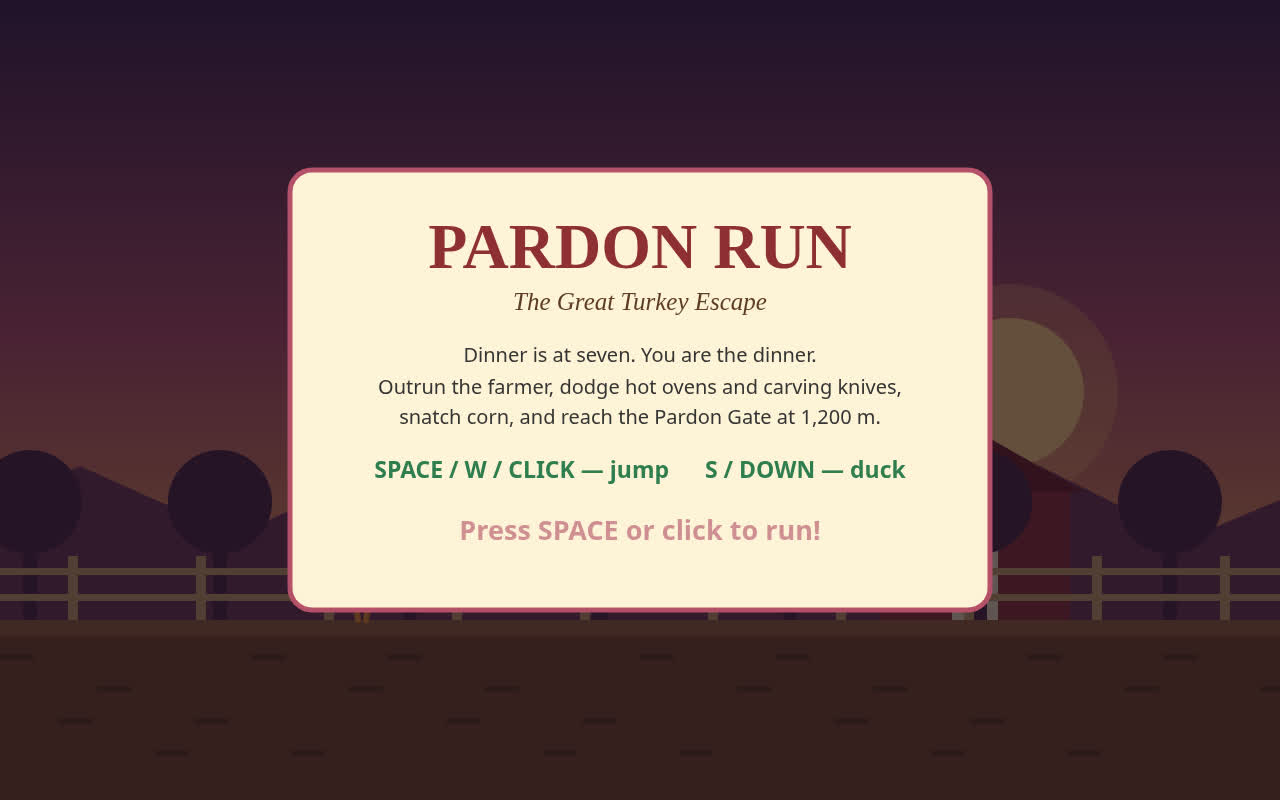
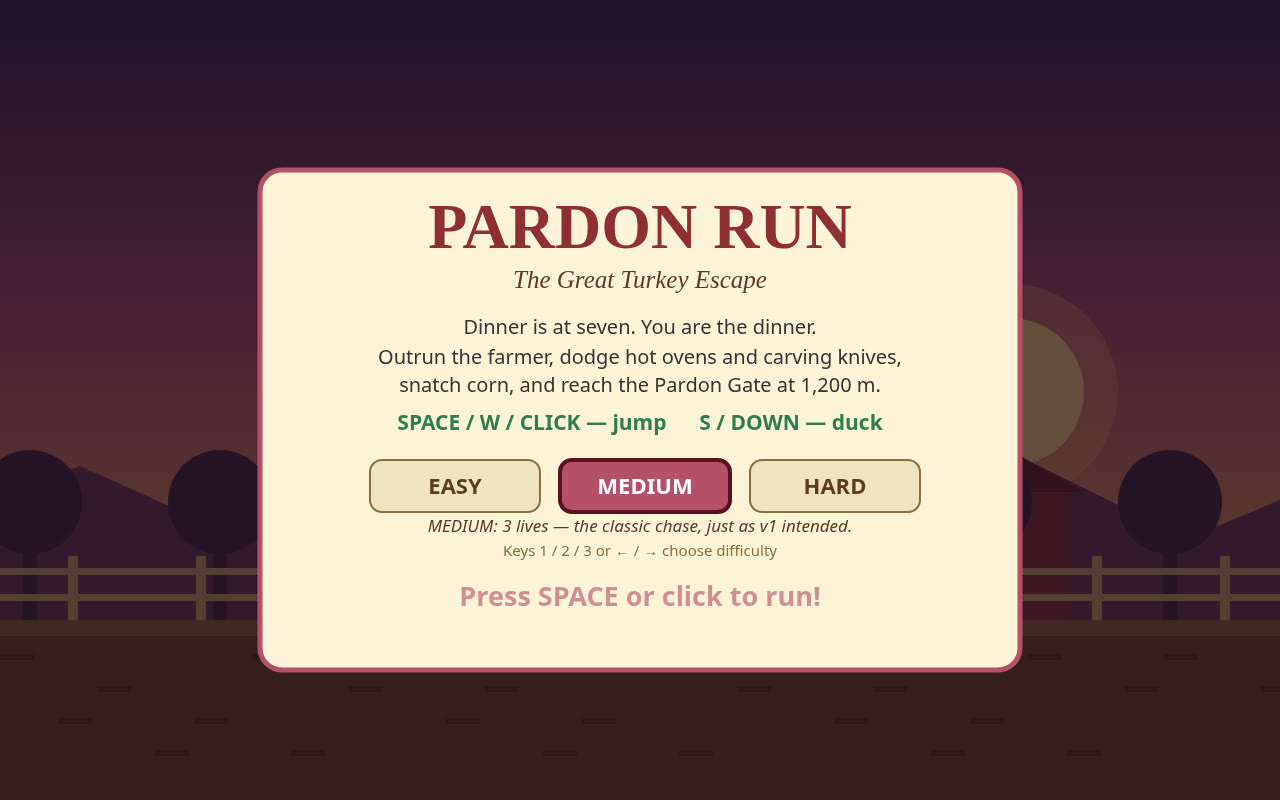
Add EASY/MEDIUM/HARD difficulty modes

Changed region(s): [[0.1875, 0.1875, 0.8125, 0.8438]]

diff --git a/game/src/hud.js b/game/src/hud.js
@@ -1,7 +1,23 @@
 // hud.js — heads-up display and the title / end cards. The HUD always
 // shows score, distance, lives and the FARMER meter while running.
 
-import { GOAL_M } from './world.js';
+import { GOAL_M, MODES, MODE_ORDER } from './world.js';
+
+// Mode buttons on the title card, in stage coordinates (1280x800).
+// Exported so main.js hit-tests clicks against exactly these rects.
+export const MODE_BUTTONS = MODE_ORDER.map((mode, i) => ({
+  mode,
+  x: 370 + i * 190,
+  y: 460,
+  w: 170,
+  h: 52,
+}));
+
+export const MODE_DESCRIPTIONS = {
+  easy: 'EASY: 5 lives, a kinder farmer, and obstacles spaced far apart.',
+  medium: 'MEDIUM: 3 lives — the classic chase, just as v1 intended.',
+  hard: 'HARD: only 2 lives, an aggressive farmer, obstacles packed tight.',
+};
 
 function panel(ctx, x, y, w, h) {
   ctx.fillStyle = 'rgba(24,14,28,0.72)';
@@ -9,9 +25,10 @@ function panel(ctx, x, y, w, h) {
   ctx.strokeStyle = 'rgba(255,217,141,0.55)'; ctx.lineWidth = 2; ctx.stroke();
 }
 
-function hearts(ctx, lives) {
-  for (let i = 0; i < 3; i++) {
-    const x = 36 + i * 40, y = 104;
+function hearts(ctx, lives, maxLives = 3) {
+  const total = Math.max(1, maxLives);
+  for (let i = 0; i < total; i++) {
+    const x = 36 + i * 34, y = 104;
     ctx.fillStyle = i < lives ? '#ff4d5e' : 'rgba(255,255,255,0.25)';
     ctx.beginPath();
     ctx.moveTo(x, y + 12);
@@ -30,10 +47,11 @@ export function drawHud(ctx, w) {
   ctx.fillStyle = '#ffffff';
   ctx.font = 'bold 21px system-ui, sans-serif';
   ctx.fillText('DIST  ' + Math.min(GOAL_M, Math.floor(w.dist)) + ' m / ' + GOAL_M + ' m', 36, 82);
-  hearts(ctx, Math.max(0, w.lives));
+  hearts(ctx, Math.max(0, w.lives), w.maxLives || 3);
   ctx.fillStyle = '#ffe9b0';
   ctx.font = 'bold 16px system-ui, sans-serif';
-  ctx.fillText('CORN x' + w.corn, 168, 110);
+  // Corn counter sits just right of however many hearts this mode has.
+  ctx.fillText('CORN x' + w.corn, 44 + (w.maxLives || 3) * 34, 110);
 
   // Farmer meter: fills red as he closes in.
   panel(ctx, 880, 16, 382, 74);
@@ -60,6 +78,15 @@ export function drawHud(ctx, w) {
   ctx.fillText('PARDON GATE ' + Math.round(p * 100) + '%', 590, 58);
   ctx.textAlign = 'left';
 
+  // Current difficulty, tucked under the left panel so it never overlaps
+  // the score panel above it or the flash message in the centre.
+  ctx.fillStyle = 'rgba(24,14,28,0.72)';
+  ctx.beginPath(); ctx.roundRect(18, 132, 180, 34, 9); ctx.fill();
+  ctx.strokeStyle = 'rgba(255,217,141,0.55)'; ctx.lineWidth = 1.5; ctx.stroke();
+  ctx.fillStyle = '#ffd98a';
+  ctx.font = 'bold 16px system-ui, sans-serif'; ctx.textAlign = 'left';
+  ctx.fillText('MODE ' + String(w.mode || 'medium').toUpperCase(), 32, 155);
+
   if (w.flashT > 0 && w.phase === 'run') {
     ctx.fillStyle = 'rgba(214,60,50,0.92)';
     ctx.font = 'bold 30px system-ui, sans-serif'; ctx.textAlign = 'center';
@@ -77,27 +104,44 @@ function card(ctx, w, h) {
 }
 
 export function drawTitle(ctx, w) {
-  card(ctx, 700, 440);
+  card(ctx, 760, 500);
   ctx.textAlign = 'center';
   ctx.fillStyle = '#8e2f35';
   ctx.font = 'bold 64px Georgia, serif';
-  ctx.fillText('PARDON RUN', 640, 268);
+  ctx.fillText('PARDON RUN', 640, 248);
   ctx.fillStyle = '#5d3a22';
   ctx.font = 'italic 25px Georgia, serif';
-  ctx.fillText('The Great Turkey Escape', 640, 310);
+  ctx.fillText('The Great Turkey Escape', 640, 288);
   ctx.fillStyle = '#333';
   ctx.font = '20px system-ui, sans-serif';
-  ctx.fillText('Dinner is at seven. You are the dinner.', 640, 362);
-  ctx.fillText('Outrun the farmer, dodge hot ovens and carving knives,', 640, 394);
-  ctx.fillText('snatch corn, and reach the Pardon Gate at 1,200 m.', 640, 424);
+  ctx.fillText('Dinner is at seven. You are the dinner.', 640, 334);
+  ctx.fillText('Outrun the farmer, dodge hot ovens and carving knives,', 640, 364);
+  ctx.fillText('snatch corn, and reach the Pardon Gate at 1,200 m.', 640, 392);
   ctx.fillStyle = '#2e7d4f';
-  ctx.font = 'bold 23px system-ui, sans-serif';
-  ctx.fillText('SPACE / W / CLICK — jump      S / DOWN — duck', 640, 478);
+  ctx.font = 'bold 21px system-ui, sans-serif';
+  ctx.fillText('SPACE / W / CLICK — jump      S / DOWN — duck', 640, 430);
+  // Difficulty picker: three buttons, the chosen one clearly highlighted.
+  const selected = MODES[w.mode] ? w.mode : 'medium';
+  for (const btn of MODE_BUTTONS) {
+    const active = btn.mode === selected;
+    ctx.fillStyle = active ? '#b5506a' : '#efe3c2';
+    ctx.beginPath(); ctx.roundRect(btn.x, btn.y, btn.w, btn.h, 12); ctx.fill();
+    ctx.strokeStyle = active ? '#5d1020' : '#8a6d3b'; ctx.lineWidth = active ? 4 : 2; ctx.stroke();
+    ctx.fillStyle = active ? '#ffffff' : '#5d3a22';
+    ctx.font = 'bold 22px system-ui, sans-serif';
+    ctx.fillText(btn.mode.toUpperCase(), btn.x + btn.w / 2, btn.y + 34);
+  }
+  ctx.fillStyle = '#5d3a22';
+  ctx.font = 'italic 17px system-ui, sans-serif';
+  ctx.fillText(MODE_DESCRIPTIONS[selected], 640, 532);
+  ctx.fillStyle = '#8a6d3b';
+  ctx.font = '15px system-ui, sans-serif';
+  ctx.fillText('Keys 1 / 2 / 3 or ← / → choose difficulty', 640, 556);
   ctx.fillStyle = '#b5506a';
   ctx.font = 'bold 27px system-ui, sans-serif';
   const pulse = 0.75 + Math.sin(w.time * 4) * 0.25;
   ctx.globalAlpha = pulse;
-  ctx.fillText('Press SPACE or click to run!', 640, 540);
+  ctx.fillText('Press SPACE or click to run!', 640, 606);
   ctx.globalAlpha = 1;
   ctx.textAlign = 'left';
 }

diff --git a/game/src/world.js b/game/src/world.js
@@ -7,19 +7,37 @@ import { makeRng, pick } from './random.js';
 export const GOAL_M = 1200;
 export const GROUND_Y = 620;
 
-export function createWorld(seed) {
+// Difficulty modes. Running speed is identical in every mode (the exact
+// v1 formula in stepWorld); modes differ only in lives, farmer behaviour
+// and obstacle density. MEDIUM reproduces the original v1 tuning exactly.
+export const MODES = {
+  easy: { lives: 5, startGap: 56, hitGap: 10, gapRegen: 1.6, spawnMin: 36, spawnMax: 52 },
+  medium: { lives: 3, startGap: 46, hitGap: 17, gapRegen: 1.15, spawnMin: 30, spawnMax: 46 },
+  hard: { lives: 2, startGap: 36, hitGap: 24, gapRegen: 0.8, spawnMin: 24, spawnMax: 38 },
+};
+export const MODE_ORDER = ['easy', 'medium', 'hard'];
+
+export function modeParams(mode) {
+  return MODES[mode] || MODES.medium;
+}
+
+export function createWorld(seed, mode = 'medium') {
+  const chosen = MODES[mode] ? mode : 'medium';
+  const p = MODES[chosen];
   return {
     phase: 'title', // title | run | escaped | caught
     seed,
+    mode: chosen,
     rng: makeRng(seed),
     time: 0,
     dist: 0,
     score: 0,
     corn: 0,
-    lives: 3,
-    speed: 7.2, // metres per second, grows as the run goes on
+    lives: p.lives,
+    maxLives: p.lives,
+    speed: 7.2, // metres per second, grows as the run goes on (same in all modes)
     turkey: { y: 0, vy: 0, ducking: false, runPhase: 0, hurt: 0 },
-    farmerGap: 46, // metres behind the turkey; 0 means caught
+    farmerGap: p.startGap, // metres behind the turkey; 0 means caught
     farmerBob: 0,
     items: [], // {kind: oven|knife|corn, x (screen offset m), y, spin, taken}
     nextSpawn: 26,
@@ -30,7 +48,7 @@ export function createWorld(seed) {
 }
 
 export function startRun(w) {
-  const fresh = createWorld(w.seed);
+  const fresh = createWorld(w.seed, w.mode);
   Object.assign(w, fresh);
   w.phase = 'run';
 }
@@ -50,7 +68,8 @@ function spawnAhead(w) {
     for (let i = 0; i < n; i++) w.items.push({ kind: 'corn', x: ahead + i * 2.6, arc: i, taken: false });
   }
   const tight = Math.min(9, w.dist / 160);
-  w.nextSpawn = w.dist + pick(rng, 30 - tight, 46 - tight);
+  const mp = modeParams(w.mode);
+  w.nextSpawn = w.dist + pick(rng, mp.spawnMin - tight, mp.spawnMax - tight);
 }
 
 export function turkeyBox(w) {
@@ -63,6 +82,8 @@ export function stepWorld(w, dt, input) {
   const events = [];
   if (w.phase !== 'run') return events;
   w.time += dt;
+  const mp = modeParams(w.mode);
+  // Speed is deliberately identical in every mode: the exact v1 formula.
   w.speed = 7.2 + Math.min(5.2, w.dist / 210);
   w.dist += w.speed * dt;
   w.score = Math.floor(w.dist) + w.corn * 25;
@@ -87,7 +108,7 @@ export function stepWorld(w, dt, input) {
 
   // The farmer slowly loses ground while the turkey runs clean, and gains
   // it back over time so a lazy run still ends in a chase.
-  w.farmerGap = Math.min(60, w.farmerGap + dt * 1.15);
+  w.farmerGap = Math.min(60, w.farmerGap + dt * mp.gapRegen);
 
   if (w.dist >= w.nextSpawn) spawnAhead(w);
 
@@ -132,7 +153,7 @@ function hit(w, events, message) {
   if (w.turkey.hurt > 0) return;
   w.lives -= 1;
   w.turkey.hurt = 1.1;
-  w.farmerGap = Math.max(0, w.farmerGap - 17);
+  w.farmerGap = Math.max(0, w.farmerGap - modeParams(w.mode).hitGap);
   w.flash = message;
   w.flashT = 1.6;
   w.shake = 1;

diff --git a/game/src/main.js b/game/src/main.js
@@ -1,9 +1,9 @@
 // main.js — PARDON RUN entry point: owns the canvas, the frame loop and
 // the phase changes (title -> run -> escaped/caught -> restart).
 
-import { createWorld, startRun, stepWorld } from './world.js';
+import { createWorld, startRun, stepWorld, MODES, MODE_ORDER } from './world.js';
 import { drawScene, VIEW_W, VIEW_H } from './render.js';
-import { drawHud, drawTitle, drawEnd } from './hud.js';
+import { drawHud, drawTitle, drawEnd, MODE_BUTTONS } from './hud.js';
 import { createInput } from './input.js';
 import { sfx } from './audio.js';
 import { readShotRequest, applyShotScene } from './shots.js';
@@ -31,10 +31,44 @@ function beginOrJump() {
   else startRun(world);
 }
 
-const held = createInput((action) => {
+// Last stage transform computed by frame(); used to map tap coordinates.
+let stageScale = 1, stageOffX = 0, stageOffY = 0;
+
+function setMode(mode) {
+  if (!MODES[mode]) return;
+  world.mode = mode;
+  // Keep the title preview in sync: gap and lives for the chosen mode.
+  // (Speed is the same v1 formula in every mode, so it is not touched.)
+  const p = MODES[mode];
+  if (world.phase === 'title') { world.farmerGap = p.startGap; world.lives = p.lives; world.maxLives = p.lives; }
+  sfx.corn();
+}
+
+function cycleMode(dir) {
+  const idx = MODE_ORDER.indexOf(world.mode);
+  const next = MODE_ORDER[(idx + dir + MODE_ORDER.length) % MODE_ORDER.length];
+  setMode(next);
+}
+
+function handleTap(data) {
+  sfx.unlock();
+  if (world.phase === 'title' && data && typeof data.clientX === 'number') {
+    const sx = (data.clientX - stageOffX) / stageScale;
+    const sy = (data.clientY - stageOffY) / stageScale;
+    const btn = MODE_BUTTONS.find((b) => sx >= b.x && sx <= b.x + b.w && sy >= b.y && sy <= b.y + b.h);
+    if (btn) { setMode(btn.mode); return; }
+  }
+  beginOrJump();
+}
+
+const held = createInput((action, data) => {
   if (shot) return;
-  if (action === 'jump' || action === 'confirm') beginOrJump();
-  if (action === 'restart' && world.phase !== 'run') startRun(world);
+  if (action === 'tap') handleTap(data);
+  else if (action === 'jump' || action === 'confirm') beginOrJump();
+  else if (action === 'restart' && world.phase !== 'run') startRun(world);
+  else if (action === 'mode' && world.phase === 'title') setMode(data && data.mode);
+  else if (action === 'modePrev' && world.phase === 'title') cycleMode(-1);
+  else if (action === 'modeNext' && world.phase === 'title') cycleMode(1);
 });
 
 if (shot) applyShotScene(world, shot.scene);
@@ -62,6 +96,7 @@ function frame(now) {
   const scale = Math.min(window.innerWidth / VIEW_W, window.innerHeight / VIEW_H);
   const offX = (window.innerWidth - VIEW_W * scale) / 2;
   const offY = (window.innerHeight - VIEW_H * scale) / 2;
+  stageScale = scale; stageOffX = offX; stageOffY = offY;
   ctx.setTransform(dpr * scale, 0, 0, dpr * scale, dpr * offX, dpr * offY);
   ctx.clearRect(0, 0, VIEW_W, VIEW_H);
   drawScene(ctx, world);

diff --git a/game/src/input.js b/game/src/input.js
@@ -1,10 +1,13 @@
 // input.js — keyboard and mouse control. Jump: Space / W / ArrowUp / click.
 // Duck: S / ArrowDown (held). Start and restart: Enter, Space or click.
+// Mode select on the title: Digit1/2/3 pick directly, ArrowLeft/Right move.
+// Pointer taps carry their client coordinates as a 'tap' action so main.js
+// can tell a mode-button click from a click to start / jump.
 // The handler only records intent; the world decides what it means.
 
 export function createInput(onPress) {
   const held = { duck: false };
-  const press = (action) => { if (onPress) onPress(action); };
+  const press = (action, data) => { if (onPress) onPress(action, data); };
 
   window.addEventListener('keydown', (ev) => {
     if (ev.repeat) return;
@@ -13,10 +16,15 @@ export function createInput(onPress) {
     else if (k === 'KeyS' || k === 'ArrowDown') { held.duck = true; }
     else if (k === 'Enter') press('confirm');
     else if (k === 'KeyR') press('restart');
+    else if (k === 'Digit1') press('mode', { mode: 'easy' });
+    else if (k === 'Digit2') press('mode', { mode: 'medium' });
+    else if (k === 'Digit3') press('mode', { mode: 'hard' });
+    else if (k === 'ArrowLeft') { ev.preventDefault(); press('modePrev'); }
+    else if (k === 'ArrowRight') { ev.preventDefault(); press('modeNext'); }
   });
   window.addEventListener('keyup', (ev) => {
     if (ev.code === 'KeyS' || ev.code === 'ArrowDown') held.duck = false;
   });
-  window.addEventListener('pointerdown', () => press('jump'));
+  window.addEventListener('pointerdown', (ev) => press('tap', { clientX: ev.clientX, clientY: ev.clientY }));
   return held;
 }

diff --git a/game/src/shots.js b/game/src/shots.js
@@ -3,7 +3,7 @@
 // entry screenshots are stable: title, play, chase and end.
 
 export const SHOT_SCENES = {
-  title: { phase: 'title' },
+  title: { phase: 'title', mode: 'medium' },
   play: {
     phase: 'run', dist: 386, score: 461, corn: 3, lives: 3, farmerGap: 38,
     items: [
@@ -39,6 +39,7 @@ export function readShotRequest() {
 
 export function applyShotScene(w, scene) {
   w.phase = scene.phase;
+  if (scene.mode) w.mode = scene.mode;
   if (scene.dist !== undefined) w.dist = scene.dist;
   if (scene.score !== undefined) w.score = scene.score;
   if (scene.corn !== undefined) w.corn = scene.corn;

diff --git a/README.md b/README.md
@@ -6,6 +6,12 @@
 
 PARDON RUN — The Great Turkey Escape is a side-scrolling runner where a turkey flees the Thanksgiving farmer across a farmyard at dusk, leaping hot ovens, ducking carving knives and snatching corn. Every hit lets the farmer close in, so reach the Pardon Gate at 1,200 m before he catches you — or end up on a platter.
 
+## Difficulty modes
+
+Pick a mode on the title screen — click EASY / MEDIUM / HARD, press 1 / 2 / 3, or use ← / →. The turkey runs at exactly the same pace in every mode; modes differ only in lives, farmer behaviour and obstacle density. EASY gives 5 lives, a kinder farmer (bigger starting gap, gentler hits, faster gap recovery) and obstacles spaced far apart. MEDIUM is the classic v1 chase: 3 lives and the original spacing. HARD gives only 2 lives, the farmer starts closer, hits cost more gap, the gap recovers more slowly, and obstacles are packed tight. The chosen mode is shown in the HUD during the run and is kept when you restart; every mode still finishes at the same Pardon Gate at 1,200 m.
+
+Controls: Space / W / ↑ / click — jump; S / ↓ — duck; 1 / 2 / 3 or ← / → on the title screen — choose difficulty.
+
 ## Run it
 
 ```sh
